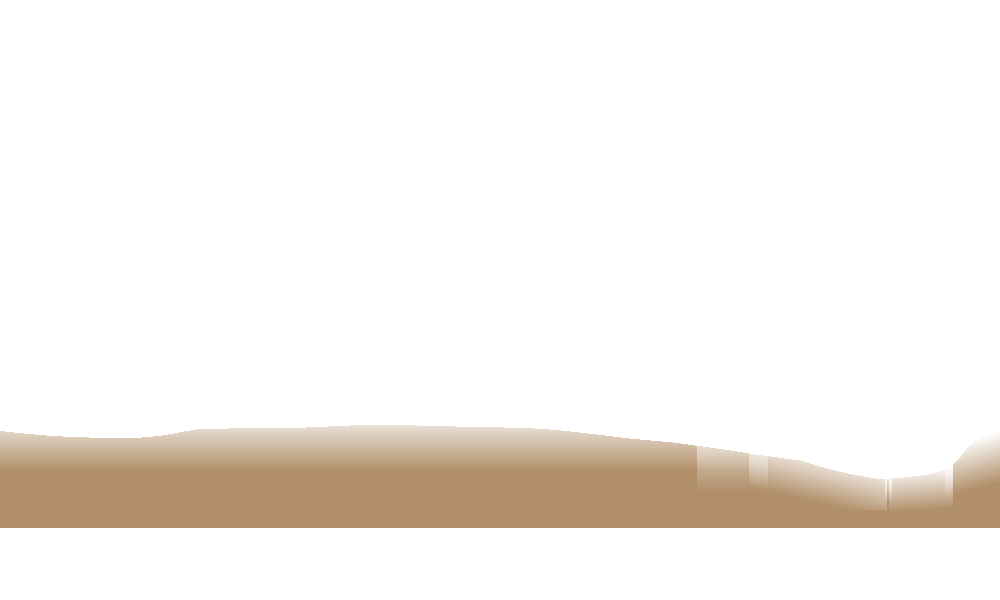
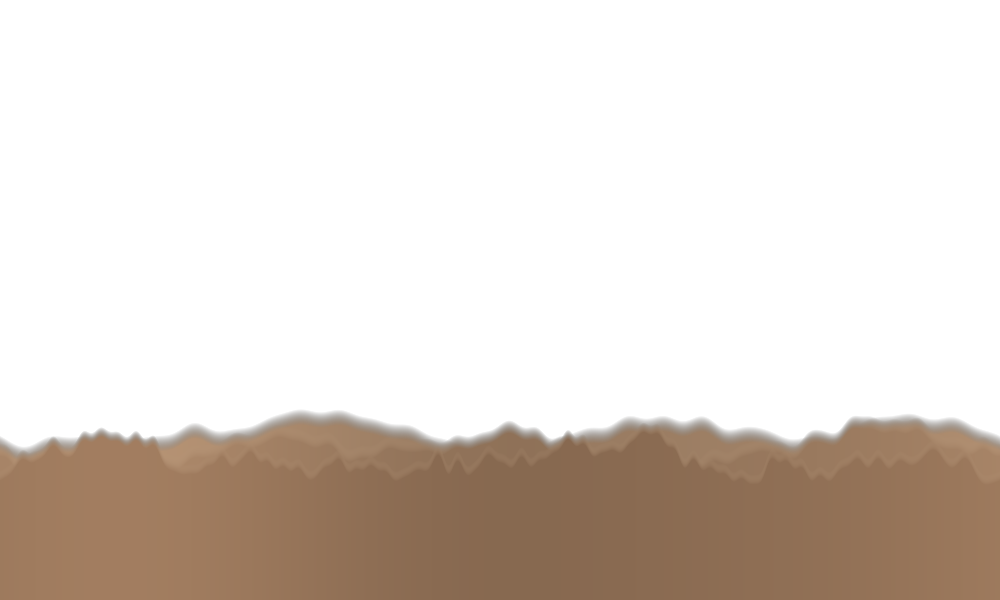
Generate the Mars far-hills layer procedurally
The 2nd Mars background layer (marshills) was a low-res hand-drawn hazy
tan silhouette with a visible repeating seam. Replace it with a
synthesized, natively-seamless multi-ridge silhouette that has real
atmospheric depth: numpy builds back-to-front ridges as circular-FFT
fractal heightfields (seamless L/R wrap, since the layer repeats with
mirrorX=false), composited with aerial perspective -- farther ridges
lighter/softer/higher, nearer darker/rougher/lower, every crest
alpha-feathered and lerped toward the haze tone so it dissolves into the
sky. Crests are placed in the ~design-y 405..450 band that actually shows
above the marsloop ground.

New offline tool tools/mars/build_marshills.py (deterministic numpy+Pillow,
like tools/earth); all aesthetic knobs are CONFIG constants; --seed /
--preview / --show for iteration. No game code changes -- SetMars already
loads marshills; pure asset swap.

Changed region(s): [[0.0, 0.66, 1.0, 1.0]]

diff --git a/tools/mars/build_marshills.py b/tools/mars/build_marshills.py
@@ -1,0 +1,215 @@
+#!/usr/bin/env python
+"""
+build_marshills.py -- procedurally generate the Mars far-hills background layer.
+
+Replaces the hand-drawn `GFX/MarsBG/marshills` (a low, hazy tan hill silhouette
+that had visible vertical seams and read as "just a repeating hazy hills
+texture") with a synthesized, natively-SEAMLESS, multi-ridge silhouette that has
+real atmospheric depth.
+
+WHERE IT'S USED: `Background.SetMars()` adds `marshills` as the 2nd background
+layer (behind the HD `marsloop` ground, in front of `clouds-background`), drawn
+at size 1, `scrollspeedmodifier = 0.7`, `mirrorX = false`. Because mirrorX is
+off the layer simply REPEATS every `realsize.X` (= texture width) pixels as it
+scrolls -- so the texture MUST wrap seamlessly left<->right or a hard seam scrolls
+through view (that was the old art's flaw). Every heightfield here is built with
+a circular FFT so column 0 continues perfectly from column W-1.
+
+HOW IT LOOKS RIGHT: distant Martian hills are sold by AERIAL PERSPECTIVE, not by
+a crisp outline -- farther ridges are lighter, softer and higher; nearer ridges
+are darker, rougher and lower; every ridge's crest DISSOLVES into the sky/haze
+(alpha feather + colour lerp toward the haze tone) instead of being a hard cut.
+The layer is drawn OVER `clouds-background` (the sky) and UNDER the `marsloop`
+ground, so the crests melt into the real sky layer and the ridge bodies get
+occluded by the near ground below the horizon.
+
+OFFLINE asset step (numpy + Pillow), same family as tools/earth, tools/walls,
+tools/favicon: CI ships the committed `marshills.png`; this only re-runs when a
+human wants to retune. It is DETERMINISTIC (seeded) -- same knobs -> same PNG.
+
+TUNE IT: every aesthetic knob is a constant in the CONFIG block below. Re-run
+    python tools/mars/build_marshills.py
+after changing them. `--seed N` overrides the RNG seed for a different hill
+shape without editing the file; `--preview` also writes a 2x-wide tiled preview
+(`_preview_marshills.png`, gitignored) so you can eyeball the wrap seam; `--show`
+composites the hills over the real `clouds-background` sky for a quick in-context
+look (`_context_marshills.png`). Don't hand-edit the output PNG -- re-run this.
+"""
+
+import argparse
+import os
+
+import numpy as np
+from PIL import Image
+
+# --------------------------------------------------------------------------- #
+#  CONFIG -- the knobs a human tweaks (see module docstring / the "For me" card)
+# --------------------------------------------------------------------------- #
+
+WIDTH, HEIGHT = 1000, 600        # must match the layer's on-disk size (drawn at size 1)
+SEED = 7                         # RNG seed; --seed overrides. Change for a new hill shape.
+
+# Palette (straight/non-premultiplied RGBA, 0..255). Sampled from the old art +
+# clouds-background so the new hills sit in the same Mars tone family.
+#   HILL_RGB : the base dusty-brown rock tone of the NEAREST ridge.
+#   HAZE_RGB : the atmospheric tone crests fade toward (== the dusty sky).
+HILL_RGB = (136, 102, 76)
+HAZE_RGB = (192, 162, 132)
+
+# Ridges are listed FAR -> NEAR (painted back to front). Per ridge:
+#   base    : crest centre-line y (design px, 0=top). Farther ridges sit HIGHER.
+#   amp     : peak-to-trough height variation (px). Nearer ridges are taller.
+#   beta    : spectral roughness of the FFT heightfield -- HIGHER = smoother,
+#             rounder hills; LOWER = jaggeder. Far hills read smoother.
+#   lowcut  : drop frequencies below this (cycles across the width) so a ridge
+#             has a few broad hills, not one giant bump. 2-3 is a good range.
+#   highcut : drop frequencies above this so far ridges stay soft (no fine spikes).
+#   haze    : 0..1, how far this ridge's body lerps toward HAZE_RGB (aerial
+#             perspective). Farther ridges are hazier (higher).
+#   feather : px of alpha fade at the crest so the ridgeline melts into the sky.
+# NOTE the tight vertical band: in Level 2 the `marsloop` ground is drawn ON TOP
+# from design y~448 down, so ONLY the ~40px strip above the rocky horizon
+# (design y ~405..450) is ever visible -- crests must land there, and each
+# ridge's body just fills down to be occluded by the ground.
+RIDGES = [
+    dict(base=428, amp=20, beta=2.5, lowcut=2, highcut=28, haze=0.52, feather=16),
+    dict(base=440, amp=26, beta=2.2, lowcut=2, highcut=46, haze=0.36, feather=13),
+    dict(base=452, amp=30, beta=2.0, lowcut=2, highcut=70, haze=0.20, feather=10),
+]
+
+# Large-scale left-to-right brightness drift (dust density) so no ridge is a flat
+# fill. Amplitude is a fraction of the ridge value; period is in screen-widths.
+DUST_STRENGTH = 0.10
+DUST_CYCLES = 1.5                # integer+.5 keeps it non-repetitive but still wraps via the ridge FFT
+
+OUT = os.path.join(os.path.dirname(__file__), "..", "..",
+                   "web", "EvilAliensWeb", "wwwroot", "Content", "gfx", "marsbg", "marshills.png")
+
+# --------------------------------------------------------------------------- #
+
+
+def periodic_heightfield(width, rng, beta, lowcut, highcut):
+    """A circular (seamless) 1-D fractal heightfield in [-1, 1], length `width`.
+
+    White noise shaped by a 1/f^(beta/2) spectral falloff via rFFT/irFFT -- the
+    circular transform makes it inherently periodic (h[0] continues from h[-1]),
+    which is what guarantees the tiled layer has no vertical seam. lowcut/highcut
+    band-limit it so a ridge is a few broad hills rather than one bump or a spiky
+    mess.
+    """
+    noise = rng.standard_normal(width)
+    spectrum = np.fft.rfft(noise)
+    k = np.arange(spectrum.size)
+    amp = np.zeros_like(k, dtype=float)
+    amp[1:] = 1.0 / (k[1:] ** (beta / 2.0))
+    amp[k < lowcut] = 0.0
+    if highcut:
+        amp[k > highcut] = 0.0
+    spectrum *= amp
+    h = np.fft.irfft(spectrum, n=width)
+    peak = np.max(np.abs(h))
+    if peak > 1e-9:
+        h /= peak
+    return h
+
+
+def lerp_rgb(a, b, t):
+    return tuple(a[i] + (b[i] - a[i]) * t for i in range(3))
+
+
+def build(seed):
+    rng = np.random.default_rng(seed)
+    W, H = WIDTH, HEIGHT
+
+    # RGBA float accumulator, straight alpha, transparent to start.
+    canvas = np.zeros((H, W, 4), dtype=np.float64)
+
+    ys = np.arange(H)[:, None]                      # (H,1) column of row indices
+
+    # A single seamless dust-drift curve shared across ridges (broad, low-freq).
+    dust = periodic_heightfield(W, np.random.default_rng(seed * 131 + 7),
+                                beta=3.0, lowcut=1, highcut=max(1, int(DUST_CYCLES) + 1))
+
+    haze = np.array(HAZE_RGB, dtype=np.float64)
+
+    for ridge in RIDGES:                             # far -> near
+        h = periodic_heightfield(W, rng, ridge["beta"], ridge["lowcut"], ridge["highcut"])
+        ridgeline = ridge["base"] - ridge["amp"] * h          # (W,) y of the crest per column
+
+        body = np.array(lerp_rgb(HILL_RGB, HAZE_RGB, ridge["haze"]), dtype=np.float64)
+
+        # Per-column brightness drift (dust) -- keep it subtle, multiply the body.
+        col_scale = 1.0 + DUST_STRENGTH * dust                # (W,)
+
+        # Coverage below the (sub-pixel) ridgeline, ~1px anti-aliased edge.
+        cover = np.clip(ys - ridgeline[None, :] + 0.5, 0.0, 1.0)   # (H,W)
+
+        # Crest haze feather: within `feather` px under the ridgeline, fade alpha
+        # AND lerp the colour extra-hard toward haze, so the top melts into sky.
+        depth = ys - ridgeline[None, :]                       # px below the crest, (H,W)
+        feather = max(1.0, ridge["feather"])
+        crest_t = np.clip(depth / feather, 0.0, 1.0)          # 0 at crest -> 1 below the feather band
+        alpha = cover * crest_t                               # transparent at the very crest
+
+        # colour = body, pulled toward haze near the crest, dusted per column.
+        near_haze = (1.0 - crest_t)[..., None] * 0.6          # (H,W,1); crests soften, don't vanish
+        rgb = body[None, None, :] * col_scale[None, :, None]  # (H,W,3)
+        rgb = rgb * (1.0 - near_haze) + haze[None, None, :] * near_haze
+        rgb = np.clip(rgb, 0, 255)
+
+        a = alpha[..., None]                                  # (H,W,1)
+        # Straight-alpha OVER composite: near ridge over the far accumulation.
+        canvas[..., :3] = rgb * a + canvas[..., :3] * (1.0 - a)
+        canvas[..., 3:4] = a + canvas[..., 3:4] * (1.0 - a)
+
+    # canvas RGB is 0..255, alpha is 0..1 -> scale alpha to 0..255 for the PNG.
+    out = np.empty((H, W, 4), dtype=np.uint8)
+    out[..., :3] = np.clip(canvas[..., :3] + 0.5, 0, 255).astype(np.uint8)
+    out[..., 3] = np.clip(canvas[..., 3] * 255.0 + 0.5, 0, 255).astype(np.uint8)
+    return out
+
+
+def main():
+    ap = argparse.ArgumentParser(description="Generate the Mars far-hills layer (marshills.png).")
+    ap.add_argument("--seed", type=int, default=SEED, help=f"RNG seed (default {SEED}).")
+    ap.add_argument("--preview", action="store_true",
+                    help="Also write a 2x-wide tiled preview to check the wrap seam.")
+    ap.add_argument("--show", action="store_true",
+                    help="Also composite over clouds-background for an in-context look.")
+    ap.add_argument("--dry-run", action="store_true", help="Build but don't write marshills.png.")
+    args = ap.parse_args()
+
+    rgba = build(args.seed)
+    img = Image.fromarray(rgba, "RGBA")
+    out = os.path.normpath(OUT)
+
+    if not args.dry_run:
+        img.save(out)
+        print(f"wrote {out}  ({img.width}x{img.height}, seed {args.seed})")
+    else:
+        print(f"[dry-run] built {img.width}x{img.height}, seed {args.seed} (not saved)")
+
+    # Diagnostic previews live next to THIS script (gitignored), never in wwwroot.
+    here = os.path.dirname(__file__)
+    if args.preview:
+        tiled = Image.new("RGBA", (img.width * 2, img.height))
+        tiled.paste(img, (0, 0))
+        tiled.paste(img, (img.width, 0))
+        p = os.path.join(here, "_preview_marshills.png")
+        tiled.save(p)
+        print(f"wrote {p}  (2x tiled -- inspect the join at x={img.width})")
+
+    if args.show:
+        sky_path = os.path.join(os.path.dirname(out), "clouds-background.png")
+        if os.path.exists(sky_path):
+            sky = Image.open(sky_path).convert("RGBA").resize((img.width, img.height))
+            comp = Image.alpha_composite(sky, img)
+            c = os.path.join(here, "_context_marshills.png")
+            comp.save(c)
+            print(f"wrote {c}  (hills over clouds-background)")
+        else:
+            print(f"[--show] no {sky_path}; skipped")
+
+
+if __name__ == "__main__":
+    main()

diff --git a/CLAUDE.md b/CLAUDE.md
@@ -570,6 +570,24 @@ dotnet run -c Debug --urls http://localhost:5280     # then open the URL
   `Background.Reset()` clears the belt state on every fresh level entry; a death mid-belt can skip the
   disengage but is self-correcting (the belt replays from the pre-belt checkpoint — see the
   `EngageBeltSlowdown` comment; don't add a checkpoint *inside* the belt).
+- **Mars far-hills layer is PROCEDURAL, not hand-drawn -- `tools/mars/build_marshills.py`.** The 2nd
+  Mars background layer (`GFX/MarsBG/marshills`, added by `Background.SetMars()` behind the HD `marsloop`
+  ground / in front of `clouds-background`, scrollspeed 0.7) used to be a low-res hand-drawn hazy tan
+  silhouette with a visible repeating seam. It's now SYNTHESIZED: numpy builds N back-to-front ridges as
+  circular-FFT (natively SEAMLESS -- `mirrorX=false`, so the layer just REPEATS every `realsize.X`; the
+  wrap MUST be seamless) fractal heightfields, composited with aerial perspective (farther ridges
+  lighter/softer/higher, nearer darker/rougher/lower; every crest alpha-feathers + lerps toward the haze
+  tone so it dissolves into the sky). **Tight visible band:** in Level 2 the `marsloop` ground draws ON
+  TOP from design y~448 down, so ONLY ~design y 405..450 (just above the rocky horizon) ever shows -- the
+  `RIDGES` crests are placed to land there and each body just fills down to be occluded. All aesthetic
+  knobs (palette, per-ridge base/amp/roughness/haze/feather, seed) are constants in the tool's CONFIG
+  block. Re-run `python tools/mars/build_marshills.py` after tweaking; `--seed N`, `--preview` (2x-tiled
+  seam check -> `tools/mars/_preview_marshills.png`, gitignored), `--show` (composite over the real sky
+  -> `_context_marshills.png`). Deterministic/offline (numpy+Pillow), like tools/earth & tools/favicon;
+  CI ships the committed `marshills.png`. It's a plain PNG decoded at level preload (tiny, not in
+  `textures.config`). Don't hand-edit the PNG -- re-run the tool. GOTCHA when editing the tool: the alpha
+  accumulator is 0..1 while RGB is 0..255, so the final cast must scale alpha by 255 (a missed *255 makes
+  the whole layer ~1/255 transparent -> invisible hills).
 - **Tab favicon = the player-UFO sprite, not a drawn alien -- `tools/favicon/build_favicon.py`.** The
   browser tab icon used to be a hand-drawn green "grey alien" head (`wwwroot/favicon.svg`, deleted). It's
   now built from THE game art: frame 28 (top-3/4 "hero" pose) of the player saucer sheet
